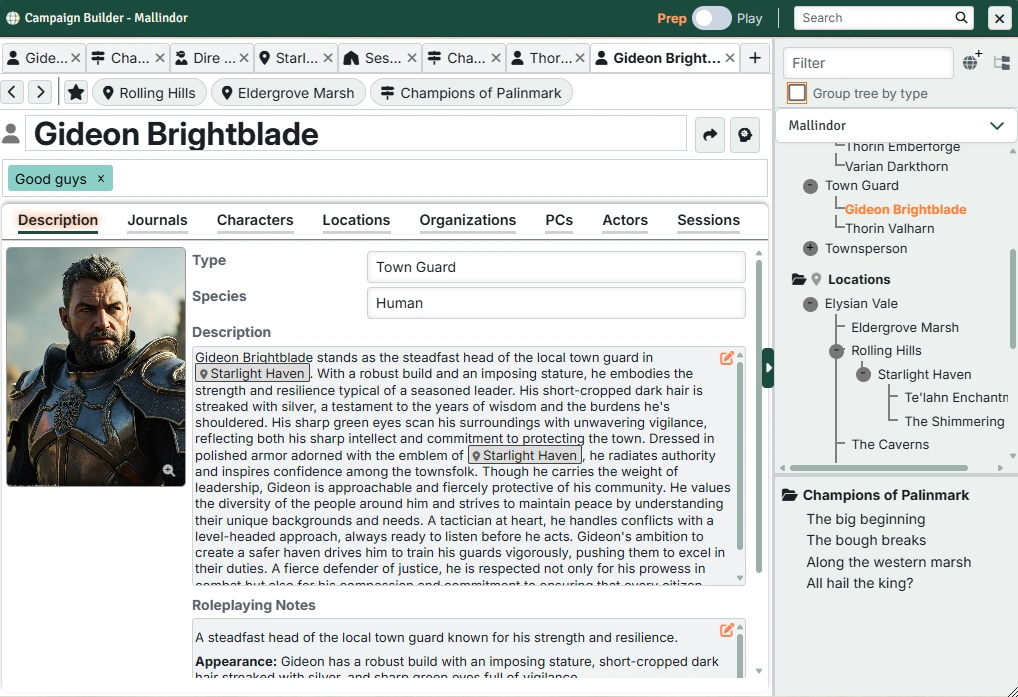
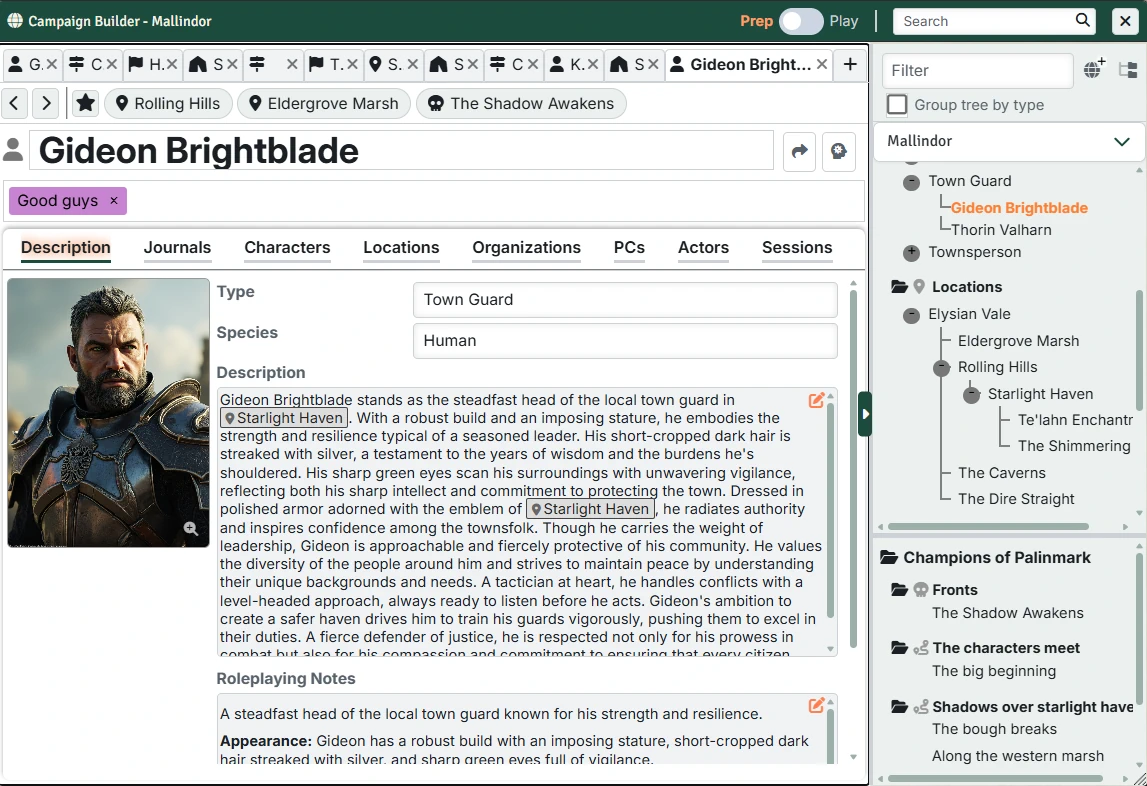
doc update

Changed region(s): [[0.0, 0.0904, 1.0, 1.0], [0.0, 0.0, 1.0, 0.1506], [0.9745, 0.1808, 1.0, 0.2109]]

diff --git a/docs/.vitepress/theme/utils/version.ts b/docs/.vitepress/theme/utils/version.ts
@@ -1,2 +1,2 @@
 // This file is auto-generated. Do not edit directly.
-export const VERSION = '1.6.0';
+export const VERSION = '1.6.1';

diff --git a/README.md b/README.md
@@ -11,9 +11,11 @@ World & Campaign Builder is designed to streamline every part of your TTRPG prep
 See the [user documentation](https://dovrosenberg.github.io/fvtt-campaign-builder/) for full details.
 
 <p align="center">
-  <img src="https://dovrosenberg.github.io/fvtt-campaign-builder/screenshots/screenshot1.webp" alt="World building view" width="260" />
+  <img src="https://dovrosenberg.github.io/fvtt-campaign-builder/screenshots/full-screen.webp" alt="World building view" width="260" />
   <img src="https://dovrosenberg.github.io/fvtt-campaign-builder/screenshots/screenshot2.webp" alt="Entry relationships view" width="260" />
   <img src="https://dovrosenberg.github.io/fvtt-campaign-builder/screenshots/screenshot3.webp" alt="Session planning view" width="260" />
+  <img src="https://dovrosenberg.github.io/fvtt-campaign-builder/screenshots/screenshot4.webp" alt="Fronts" width="260" />
+  <img src="https://dovrosenberg.github.io/fvtt-campaign-builder/screenshots/screenshot5.webp" alt="Story Arcs" width="260" />
 </p>
 
 ## A note on AI and "Advanced Features"

diff --git a/docs/index.md b/docs/index.md
@@ -26,15 +26,17 @@ features:
 
   const version = inject('version')
   const baseUrl = import.meta.env.BASE_URL ?? '/'
-  const screenshots = Array.from({ length: 4 }, (_, i) =>
-    `${baseUrl}screenshots/screenshot${i + 1}.webp`
-  )
   const labels = [
     'Build out your world',
     'Easily maintain connections between elements',
     'Prep sessions in "Lazy DM" style (or however you choose)',
+    'Use Fronts to track \'off-camera\' action by the bad guys',
+    'Story arcs let you track your plot and store ideas for the future', 
     'AI generation of text and images (optional)'
   ];
+  const screenshots = Array.from({ length: labels.length }, (_, i) =>
+    `${baseUrl}screenshots/screenshot${i + 1}.webp`
+  )
   const currentIndex = ref(0);
   const currentScreenshot = computed(() => screenshots[currentIndex.value]);
   const slideLabel = computed(() => labels[currentIndex.value]);
